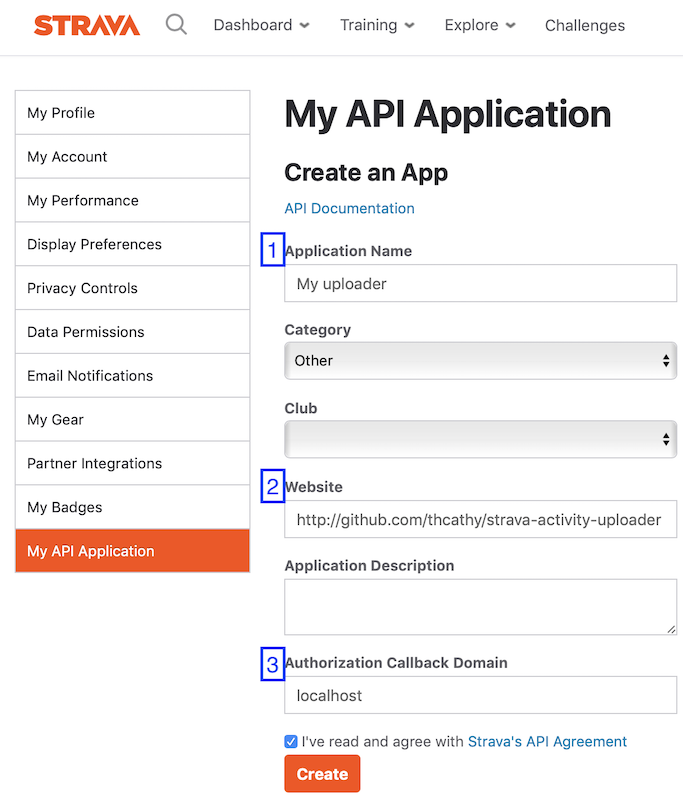
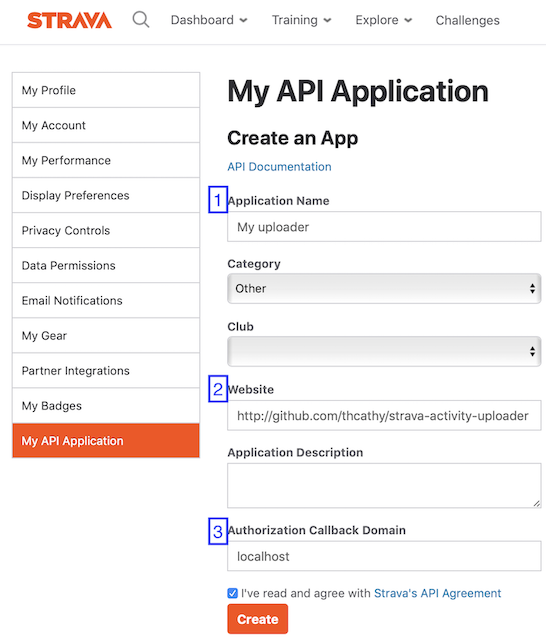
update readme - reduce images size - fix links and typo

diff --git a/README.md b/README.md
@@ -24,16 +24,16 @@
 
 ## Prerequisites
 ### 1. Email account 
-Register an email address on provider with IMAP protocol. e.g. Gmail, Yahoo! Mail, Outlook.com  
-Suggest to use a new email address to reduce duplicate messages proceed.
+Register an email address on provider support IMAP protocol. e.g. Gmail, Yahoo! Mail, Outlook.com  
+Suggest to use an email address only for upload activity
 
-### 2. Create an App in Strava Settings
-Step 1: Create a Strava account if you do not have one
+### 2. Create an app account in Strava Settings
+#### Step 1: Create a Strava account if you do not have one
 
-Step 2: Go to Strava developer (https://developers.strava.com) and click "Create & Manage Your App"  
+#### Step 2: Go to Strava developer (https://developers.strava.com) and click "Create & Manage Your App"  
 ![Strava API](/image/strava-api.png)
 
-Step 3: Input following, then click "Create" 
+#### Step 3: Input following, then click "Create" 
   1. Application Name (Any)
   2. Website (Any)
   3. Authorization Callback Domain  
@@ -41,14 +41,14 @@ Step 3: Input following, then click "Create"
   
 ![Create App](/image/create-app.png)
    
-Step 4: In "My API Application" page, remember 1. "Client ID" and 2. "Client Secret" for configure the uploader  
+#### Step 4: In "My API Application" page, remember 1. "Client ID" and 2. "Client Secret" for starting uploader  
 ![App settings](/image/app-settings.png)
 
 ## How to use?
-### 1. Start the server. Either by a) docker or b) java jar 
+### 1. Start the server. Either use a) docker or b) java jar 
 #### a. By docker (recommended)
 Run docker image "thcathy/strava-activity-uploader". Replace the required environment variables.
-```bash
+```
 docker run --name strava-activity-uploader \
   -e STRAVA_CLIENT_ID=<strava's client id> \
   -e STRAVA_CLIENT_SECRET=<strava's client secret> \
@@ -60,9 +60,9 @@ docker run --name strava-activity-uploader \
 ```
 
 #### b. Java command line (require Java version 10+ installed)
-Download jar file from [release page](https://github.com/thcathy/strava-activity-uploader/releases)  
-Run java command in console
-```bash
+Download jar file from [release page](https://github.com/thcathy/strava-activity-uploader/releases). 
+Then run java command in console. Replace the required properties
+```
 java \
 -Dstrava.client_id=<strava's client id> \
 -Dstrava.client_secret=<strava's client secret> \
@@ -72,30 +72,30 @@ java \
 -jar strava-activity-uploader.jar
 ```
 
-### 2. Login to your Strava app
-Step 1: Open "localhost:4567/strava/login" (replace 'localhost:4567' if you start application in your server)  
+### 2. Login Strava in uploader
+Step 1: Open "http://localhost:4567/strava/login" (replace 'localhost:4567' if you start application in your server)  
 Step 2: Login your Strava account and Authorize the application  
 Step 3: If login successfully, browser will show "success". You can close the browser. The application will upload any activity in email periodically. 
 
-### 3. Send email with attachment to email account created in Prerequisites
+### 3. Send email with attachment to email account set in startup parameters
 Application will check email for each 3 minutes (can be changed by configuration)  
 Then upload any activity files (fit, fit.gz, tcx, tcx.gz, gpx, gpx.gz) to Strava
 
 ## Development setup
 ### Build application
 1. Clone source from github
-```bash
+```
 git clone https://github.com/thcathy/strava-activity-uploader.git
 ```
 2. Build runnable jar using gradle
-```bash
+```
 ./gradlew assemble shadowJar
 ```
 3. Jar is built in build/libs/strava-activity-uploader.jar
 
 ### Running tests
-Run all test using gradle
-```bash
+Run all tests using gradle
+```
 ./gradlew check
 ```
 
